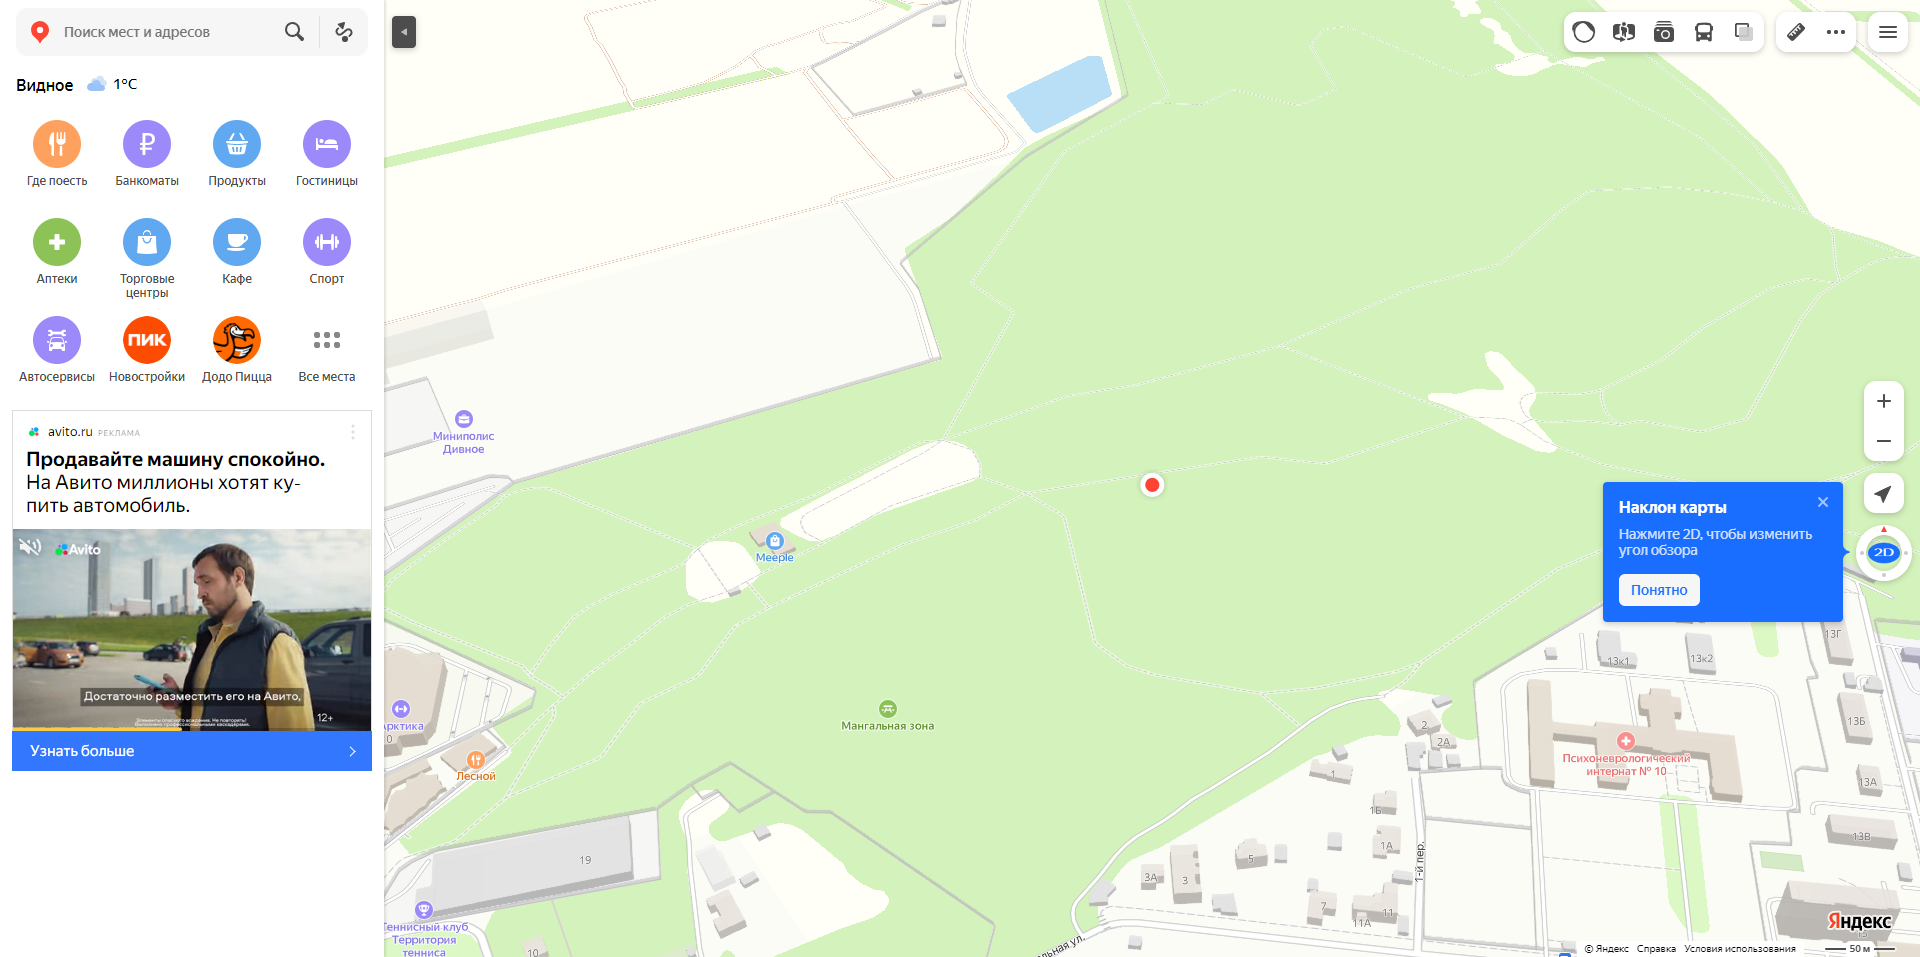
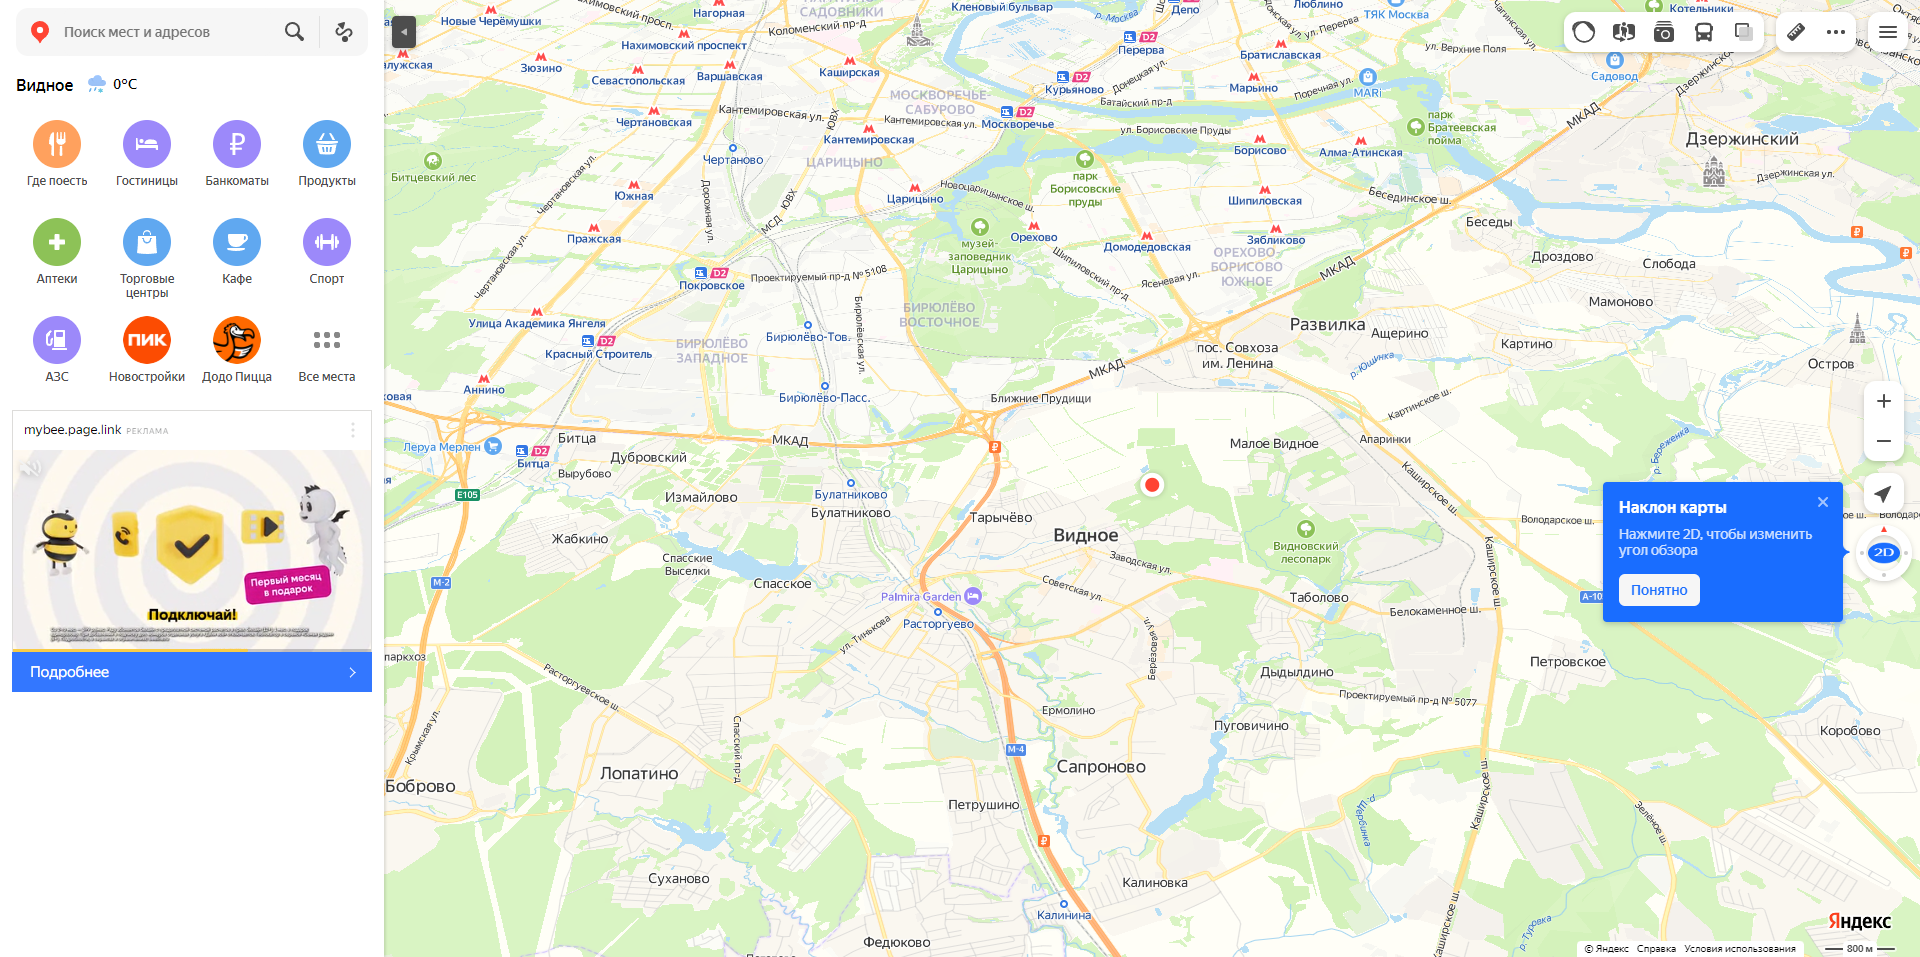
Files updated

diff --git a/tests/map_page_positive.py b/tests/map_page_positive.py
@@ -1,5 +1,4 @@
 import time
-import colorama
 import pytest
 from pages.main_page import MainPage
 from settings import *
@@ -15,12 +14,14 @@ class TestMapPagePositive:
         (ожидаемый пользователем) совпадает с топонимом (результатом поиска), отображаемом на карте."""
 
         page = MainPage(driver)
-        page.wait_page_loaded()
+        page.wait_page_loaded(check_page_changes=True)
+        page.incrise_map_size(amount="medium")
+        page.wait_page_loaded(check_page_changes=True)
         page.enter_searching_address("Москва, Поклонная гора")
         page.submit_search_btn_click()
-        page.wait_page_loaded()
+        page.wait_page_loaded(check_page_changes=True)
         page.incrise_map_size(amount="low")
-        page.wait_page_loaded()
+        page.wait_page_loaded(check_page_changes=True)
         parsed_toponyms_name = page.get_toponym_descript(driver)
         page.make_screenshot(file_path=screenshots_folder + "\\test_search_address_positive.png")
 
@@ -70,18 +71,20 @@ class TestMapPagePositive:
         трехмерным отображением объектов (3D-режим)."""
 
         page = MainPage(driver)
-        page.wait_page_loaded(wait_for_element=page.current_geo_btn)
+        page.wait_page_loaded()
         page.my_current_geoloc_btn_click()
-        page.wait_page_loaded(wait_for_element=page.incrise_view_size)
-        page.incrise_map_size(amount="high")
-        page.wait_page_loaded(check_page_changes=True)
+        page.wait_page_loaded()
+        page.decrease_map_size(amount="low")
+        page.wait_page_loaded()
         page.switch_to_3D_map_click(driver)
         page.wait_page_loaded()
         page.make_screenshot(file_path=screenshots_folder + "\\test_3D_map_btn_click.png")
 
+    @pytest.mark.build_route
     def test_build_route_by_car(self, driver):
         page = MainPage(driver)
         page.wait_page_loaded()
+        page.incrise_map_size("low")
         page.switch_to_3D_map_click(driver)
         page.wait_page_loaded()
         page.build_route_btn_click(driver)
